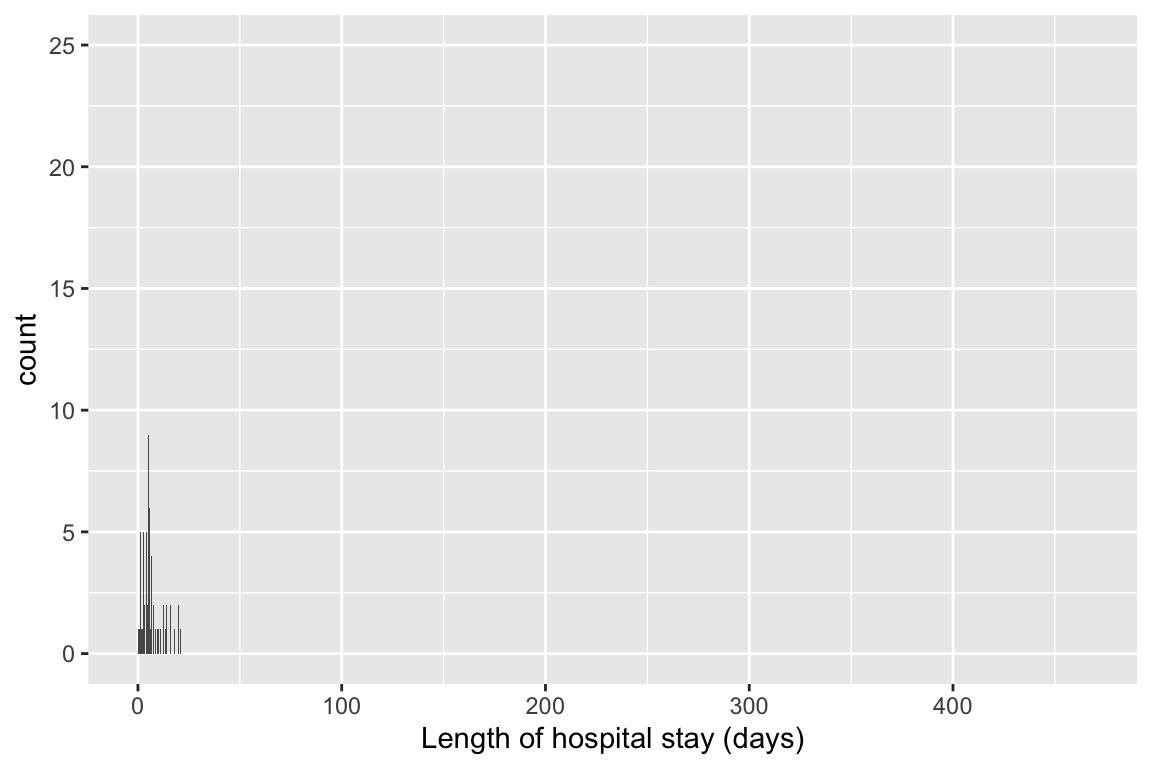
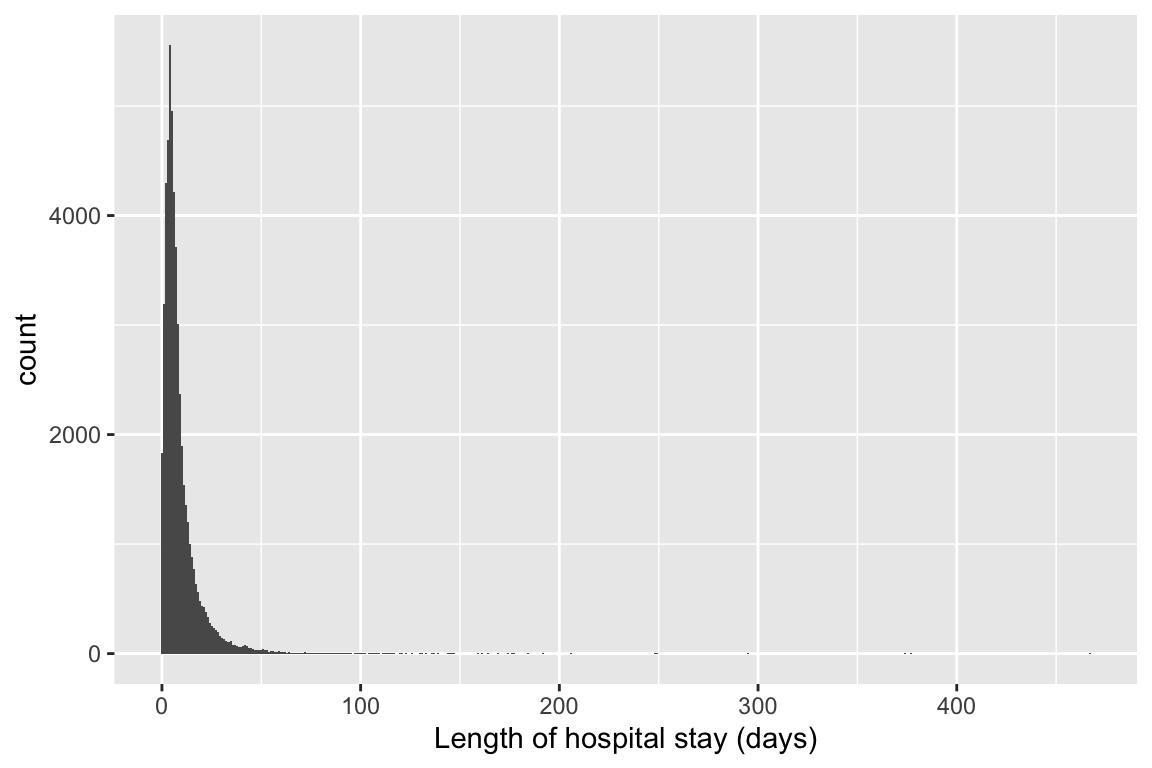
hw2 v7. Q5 mostly done

diff --git a/hw2/hw2-qmd.html b/hw2/hw2-qmd.html
@@ -255,21 +255,21 @@ loaded via a namespace (and not attached):
 <div class="sourceCode cell-code" id="cb13"><pre class="sourceCode r code-with-copy"><code class="sourceCode r"><span id="cb13-1"><a href="#cb13-1" aria-hidden="true" tabindex="-1"></a><span class="fu">system.time</span>(ad1 <span class="ot">&lt;-</span> <span class="fu">read.csv</span>(<span class="st">"~/mimic/core/admissions.csv.gz"</span>))</span></code><button title="Copy to Clipboard" class="code-copy-button"><i class="bi"></i></button></pre></div>
 <div class="cell-output cell-output-stdout">
 <pre><code>   user  system elapsed 
- 10.589   0.343  11.302 </code></pre>
+  9.494   0.229  10.052 </code></pre>
 </div>
 </div>
 <div class="cell" data-layout-align="center">
 <div class="sourceCode cell-code" id="cb15"><pre class="sourceCode r code-with-copy"><code class="sourceCode r"><span id="cb15-1"><a href="#cb15-1" aria-hidden="true" tabindex="-1"></a><span class="fu">system.time</span>(ad2 <span class="ot">&lt;-</span> <span class="fu">read_csv</span>(<span class="st">"~/mimic/core/admissions.csv.gz"</span>))</span></code><button title="Copy to Clipboard" class="code-copy-button"><i class="bi"></i></button></pre></div>
 <div class="cell-output cell-output-stdout">
 <pre><code>   user  system elapsed 
-  2.472   0.624   1.327 </code></pre>
+  2.628   0.709   1.467 </code></pre>
 </div>
 </div>
 <div class="cell" data-layout-align="center">
 <div class="sourceCode cell-code" id="cb17"><pre class="sourceCode r code-with-copy"><code class="sourceCode r"><span id="cb17-1"><a href="#cb17-1" aria-hidden="true" tabindex="-1"></a><span class="fu">system.time</span>(ad3 <span class="ot">&lt;-</span> <span class="fu">fread</span>(<span class="st">"~/mimic/core/admissions.csv.gz"</span>))</span></code><button title="Copy to Clipboard" class="code-copy-button"><i class="bi"></i></button></pre></div>
 <div class="cell-output cell-output-stdout">
 <pre><code>   user  system elapsed 
-  0.756   0.257   1.051 </code></pre>
+  0.817   0.287   1.159 </code></pre>
 </div>
 </div>
 <p><code>fread</code> is the fastest function.</p>
@@ -631,10 +631,13 @@ loaded via a namespace (and not attached):
 </div>
 <p>We can see four very distinct peaks at 0, 15, 30, and 45 minute. This is probably because sually the staffs like to use the numbers ending in 0 and 5 when recording admission. (People like to use whole numbers/ numbers ending in 0 or 5 in general).</p>
 <pre><code>- length of hospital stay (anything unusual?)   </code></pre>
+<p>I drew two different graphs:</p>
 <div class="cell" data-layout-align="center">
 <div class="sourceCode cell-code" id="cb53"><pre class="sourceCode r code-with-copy"><code class="sourceCode r"><span id="cb53-1"><a href="#cb53-1" aria-hidden="true" tabindex="-1"></a><span class="fu">ggplot</span>(<span class="at">data =</span> admissions_tble) <span class="sc">+</span> </span>
-<span id="cb53-2"><a href="#cb53-2" aria-hidden="true" tabindex="-1"></a>  <span class="fu">geom_bar</span>(<span class="at">mapping =</span> <span class="fu">aes</span>(<span class="at">x =</span> <span class="fu">difftime</span>(dischtime, admittime, <span class="at">units =</span> <span class="st">"days"</span>))) <span class="sc">+</span></span>
-<span id="cb53-3"><a href="#cb53-3" aria-hidden="true" tabindex="-1"></a>  <span class="fu">xlab</span>(<span class="st">"Length of hospital stay (days)"</span>) </span></code><button title="Copy to Clipboard" class="code-copy-button"><i class="bi"></i></button></pre></div>
+<span id="cb53-2"><a href="#cb53-2" aria-hidden="true" tabindex="-1"></a>  <span class="fu">geom_bar</span>(<span class="at">mapping =</span> <span class="fu">aes</span>(<span class="at">x =</span> <span class="fu">as.integer</span>(</span>
+<span id="cb53-3"><a href="#cb53-3" aria-hidden="true" tabindex="-1"></a>    <span class="fu">difftime</span>(dischtime, admittime, <span class="at">units =</span> <span class="st">"days"</span>))), </span>
+<span id="cb53-4"><a href="#cb53-4" aria-hidden="true" tabindex="-1"></a>           <span class="at">width =</span> <span class="dv">1</span>) <span class="sc">+</span></span>
+<span id="cb53-5"><a href="#cb53-5" aria-hidden="true" tabindex="-1"></a>  <span class="fu">xlab</span>(<span class="st">"Length of hospital stay (days)"</span>) </span></code><button title="Copy to Clipboard" class="code-copy-button"><i class="bi"></i></button></pre></div>
 <div class="cell-output-display">
 <div class="quarto-figure quarto-figure-center">
 <figure class="figure">
@@ -645,8 +648,12 @@ loaded via a namespace (and not attached):
 </div>
 <div class="cell" data-layout-align="center">
 <div class="sourceCode cell-code" id="cb54"><pre class="sourceCode r code-with-copy"><code class="sourceCode r"><span id="cb54-1"><a href="#cb54-1" aria-hidden="true" tabindex="-1"></a><span class="fu">ggplot</span>(<span class="at">data =</span> admissions_tble) <span class="sc">+</span> </span>
-<span id="cb54-2"><a href="#cb54-2" aria-hidden="true" tabindex="-1"></a>  <span class="fu">geom_bar</span>(<span class="at">mapping =</span> <span class="fu">aes</span>(<span class="at">x =</span> <span class="fu">difftime</span>(dischtime, admittime, <span class="at">units =</span> <span class="st">"weeks"</span>))) <span class="sc">+</span></span>
-<span id="cb54-3"><a href="#cb54-3" aria-hidden="true" tabindex="-1"></a>  <span class="fu">xlab</span>(<span class="st">"Length of hospital stay (weeks)"</span>) </span></code><button title="Copy to Clipboard" class="code-copy-button"><i class="bi"></i></button></pre></div>
+<span id="cb54-2"><a href="#cb54-2" aria-hidden="true" tabindex="-1"></a>  <span class="fu">geom_bar</span>(<span class="at">mapping =</span> <span class="fu">aes</span>(<span class="at">x =</span> <span class="fu">difftime</span>(dischtime, admittime, <span class="at">units =</span> <span class="st">"days"</span>)), </span>
+<span id="cb54-3"><a href="#cb54-3" aria-hidden="true" tabindex="-1"></a>           <span class="at">width =</span> <span class="dv">1</span>) <span class="sc">+</span></span>
+<span id="cb54-4"><a href="#cb54-4" aria-hidden="true" tabindex="-1"></a>  <span class="fu">xlab</span>(<span class="st">"Length of hospital stay (days)"</span>) </span></code><button title="Copy to Clipboard" class="code-copy-button"><i class="bi"></i></button></pre></div>
+<div class="cell-output cell-output-stderr">
+<pre><code>Warning: position_stack requires non-overlapping x intervals</code></pre>
+</div>
 <div class="cell-output-display">
 <div class="quarto-figure quarto-figure-center">
 <figure class="figure">
@@ -655,39 +662,21 @@ loaded via a namespace (and not attached):
 </div>
 </div>
 </div>
-<div class="cell" data-layout-align="center">
-<div class="sourceCode cell-code" id="cb55"><pre class="sourceCode r code-with-copy"><code class="sourceCode r"><span id="cb55-1"><a href="#cb55-1" aria-hidden="true" tabindex="-1"></a><span class="fu">ggplot</span>(<span class="at">data =</span> admissions_tble) <span class="sc">+</span> </span>
-<span id="cb55-2"><a href="#cb55-2" aria-hidden="true" tabindex="-1"></a>  <span class="fu">geom_bar</span>(<span class="at">mapping =</span> <span class="fu">aes</span>(<span class="at">x =</span> <span class="fu">difftime</span>(dischtime, admittime, <span class="at">units =</span> <span class="st">"week"</span>))) <span class="sc">+</span></span>
-<span id="cb55-3"><a href="#cb55-3" aria-hidden="true" tabindex="-1"></a>  <span class="fu">scale_x_continuous</span>(<span class="at">limits =</span> <span class="fu">c</span>(<span class="dv">0</span>, <span class="fu">max</span>(<span class="fu">difftime</span>(</span>
-<span id="cb55-4"><a href="#cb55-4" aria-hidden="true" tabindex="-1"></a>    admissions_tble<span class="sc">$</span>dischtime, admissions_tble<span class="sc">$</span>admittime, <span class="at">units =</span> <span class="st">"week"</span>))))</span></code><button title="Copy to Clipboard" class="code-copy-button"><i class="bi"></i></button></pre></div>
-<div class="cell-output cell-output-stderr">
-<pre><code>Warning: Removed 57 rows containing non-finite values (stat_count).</code></pre>
-</div>
-<div class="cell-output cell-output-stderr">
-<pre><code>Warning: Removed 1 rows containing missing values (geom_bar).</code></pre>
-</div>
-<div class="cell-output-display">
-<div class="quarto-figure quarto-figure-center">
-<figure class="figure">
-<p><img src="hw2-qmd_files/figure-html/unnamed-chunk-28-1.png" class="img-fluid figure-img" width="576"></p>
-</figure>
-</div>
-</div>
-</div>
-<p>What might be unusual is that the bars are tiny and we can only see the bars on the bottom left- I tried with using the unit as days and weeks and both look similar. I’m assuming there are patients who stayed for a fairly long period (different in length among themselves as well), thus it is hard to observe these people directly on the histogram.</p>
+<p>In the first graph, all the bars are near the left coner yet the x-axis still goes to more than 400. This might seem odd, but I assume this is due to there are a few people who had very long hospital stay.</p>
+<p>This hypothesis can be supported by the second graph- we can see there are several people with very long hospital stays. In the second graph, the highest count for each length of hospital stay in the unit of days is no more than 25, which might seem odd. But this is because the length of hospital stay is treated as a continuous variable in the second graph, so it is hard for a lot of people to have exact same hospital stay length.</p>
 </section>
 <section id="q4.-patients-data" class="level2" data-number="4">
 <h2 data-number="4" class="anchored" data-anchor-id="q4.-patients-data"><span class="header-section-number">4</span> Q4. <code>patients</code> data</h2>
 <p>Patient information is available in <code>patients.csv.gz</code>. See <a href="https://mimic.mit.edu/docs/iv/modules/core/patients/" class="uri">https://mimic.mit.edu/docs/iv/modules/core/patients/</a> for details of each field in this file. The first 10 lines are</p>
 <div class="cell" data-layout-align="center">
-<div class="sourceCode cell-code" id="cb58"><pre class="sourceCode r code-with-copy"><code class="sourceCode r"><span id="cb58-1"><a href="#cb58-1" aria-hidden="true" tabindex="-1"></a><span class="fu">system</span>(</span>
-<span id="cb58-2"><a href="#cb58-2" aria-hidden="true" tabindex="-1"></a>  <span class="fu">str_c</span>(</span>
-<span id="cb58-3"><a href="#cb58-3" aria-hidden="true" tabindex="-1"></a>    <span class="st">"zcat &lt; "</span>, </span>
-<span id="cb58-4"><a href="#cb58-4" aria-hidden="true" tabindex="-1"></a>    <span class="fu">str_c</span>(mimic_path, <span class="st">"/core/patients.csv.gz"</span>), </span>
-<span id="cb58-5"><a href="#cb58-5" aria-hidden="true" tabindex="-1"></a>    <span class="st">" | head"</span></span>
-<span id="cb58-6"><a href="#cb58-6" aria-hidden="true" tabindex="-1"></a>    ), </span>
-<span id="cb58-7"><a href="#cb58-7" aria-hidden="true" tabindex="-1"></a>  <span class="at">intern =</span> <span class="cn">TRUE</span></span>
-<span id="cb58-8"><a href="#cb58-8" aria-hidden="true" tabindex="-1"></a>)</span></code><button title="Copy to Clipboard" class="code-copy-button"><i class="bi"></i></button></pre></div>
+<div class="sourceCode cell-code" id="cb56"><pre class="sourceCode r code-with-copy"><code class="sourceCode r"><span id="cb56-1"><a href="#cb56-1" aria-hidden="true" tabindex="-1"></a><span class="fu">system</span>(</span>
+<span id="cb56-2"><a href="#cb56-2" aria-hidden="true" tabindex="-1"></a>  <span class="fu">str_c</span>(</span>
+<span id="cb56-3"><a href="#cb56-3" aria-hidden="true" tabindex="-1"></a>    <span class="st">"zcat &lt; "</span>, </span>
+<span id="cb56-4"><a href="#cb56-4" aria-hidden="true" tabindex="-1"></a>    <span class="fu">str_c</span>(mimic_path, <span class="st">"/core/patients.csv.gz"</span>), </span>
+<span id="cb56-5"><a href="#cb56-5" aria-hidden="true" tabindex="-1"></a>    <span class="st">" | head"</span></span>
+<span id="cb56-6"><a href="#cb56-6" aria-hidden="true" tabindex="-1"></a>    ), </span>
+<span id="cb56-7"><a href="#cb56-7" aria-hidden="true" tabindex="-1"></a>  <span class="at">intern =</span> <span class="cn">TRUE</span></span>
+<span id="cb56-8"><a href="#cb56-8" aria-hidden="true" tabindex="-1"></a>)</span></code><button title="Copy to Clipboard" class="code-copy-button"><i class="bi"></i></button></pre></div>
 <div class="cell-output cell-output-stdout">
 <pre><code> [1] "subject_id,gender,anchor_age,anchor_year,anchor_year_group,dod"
  [2] "10000048,F,23,2126,2008 - 2010,"                               
@@ -705,9 +694,9 @@ loaded via a namespace (and not attached):
 <li>Import <code>patients.csv.gz</code> (<a href="https://mimic.mit.edu/docs/iv/modules/core/patients/" class="uri">https://mimic.mit.edu/docs/iv/modules/core/patients/</a>) as a tibble <code>patients_tble</code> and only keep the patients who have a match in <code>icustays_tble</code> (according to <code>subject_id</code>).</li>
 </ol>
 <div class="cell" data-layout-align="center">
-<div class="sourceCode cell-code" id="cb60"><pre class="sourceCode r code-with-copy"><code class="sourceCode r"><span id="cb60-1"><a href="#cb60-1" aria-hidden="true" tabindex="-1"></a>patients_tble <span class="ot">&lt;-</span> <span class="fu">read_csv</span>(<span class="st">"~/mimic/core/patients.csv.gz"</span>) <span class="sc">%&gt;%</span> </span>
-<span id="cb60-2"><a href="#cb60-2" aria-hidden="true" tabindex="-1"></a>  <span class="fu">semi_join</span>(icustays_tble, <span class="at">by =</span> <span class="st">"subject_id"</span>)</span>
-<span id="cb60-3"><a href="#cb60-3" aria-hidden="true" tabindex="-1"></a>patients_tble</span></code><button title="Copy to Clipboard" class="code-copy-button"><i class="bi"></i></button></pre></div>
+<div class="sourceCode cell-code" id="cb58"><pre class="sourceCode r code-with-copy"><code class="sourceCode r"><span id="cb58-1"><a href="#cb58-1" aria-hidden="true" tabindex="-1"></a>patients_tble <span class="ot">&lt;-</span> <span class="fu">read_csv</span>(<span class="st">"~/mimic/core/patients.csv.gz"</span>) <span class="sc">%&gt;%</span> </span>
+<span id="cb58-2"><a href="#cb58-2" aria-hidden="true" tabindex="-1"></a>  <span class="fu">semi_join</span>(icustays_tble, <span class="at">by =</span> <span class="st">"subject_id"</span>)</span>
+<span id="cb58-3"><a href="#cb58-3" aria-hidden="true" tabindex="-1"></a>patients_tble</span></code><button title="Copy to Clipboard" class="code-copy-button"><i class="bi"></i></button></pre></div>
 <div class="cell-output cell-output-stdout">
 <pre><code># A tibble: 53,150 × 6
    subject_id gender anchor_age anchor_year anchor_year_group dod       
@@ -729,7 +718,7 @@ loaded via a namespace (and not attached):
 <li>Summarize variables <code>gender</code> and <code>anchor_age</code>, and explain any patterns you see.</li>
 </ol>
 <div class="cell" data-layout-align="center">
-<div class="sourceCode cell-code" id="cb62"><pre class="sourceCode r code-with-copy"><code class="sourceCode r"><span id="cb62-1"><a href="#cb62-1" aria-hidden="true" tabindex="-1"></a><span class="fu">table</span>(patients_tble<span class="sc">$</span>gender)</span></code><button title="Copy to Clipboard" class="code-copy-button"><i class="bi"></i></button></pre></div>
+<div class="sourceCode cell-code" id="cb60"><pre class="sourceCode r code-with-copy"><code class="sourceCode r"><span id="cb60-1"><a href="#cb60-1" aria-hidden="true" tabindex="-1"></a><span class="fu">table</span>(patients_tble<span class="sc">$</span>gender)</span></code><button title="Copy to Clipboard" class="code-copy-button"><i class="bi"></i></button></pre></div>
 <div class="cell-output cell-output-stdout">
 <pre><code>
     F     M 
@@ -737,15 +726,28 @@ loaded via a namespace (and not attached):
 </div>
 </div>
 <div class="cell" data-layout-align="center">
-<div class="sourceCode cell-code" id="cb64"><pre class="sourceCode r code-with-copy"><code class="sourceCode r"><span id="cb64-1"><a href="#cb64-1" aria-hidden="true" tabindex="-1"></a><span class="fu">summary</span>(patients_tble<span class="sc">$</span>anchor_age)</span></code><button title="Copy to Clipboard" class="code-copy-button"><i class="bi"></i></button></pre></div>
+<div class="sourceCode cell-code" id="cb62"><pre class="sourceCode r code-with-copy"><code class="sourceCode r"><span id="cb62-1"><a href="#cb62-1" aria-hidden="true" tabindex="-1"></a><span class="fu">summary</span>(patients_tble<span class="sc">$</span>anchor_age)</span></code><button title="Copy to Clipboard" class="code-copy-button"><i class="bi"></i></button></pre></div>
 <div class="cell-output cell-output-stdout">
 <pre><code>   Min. 1st Qu.  Median    Mean 3rd Qu.    Max. 
   18.00   53.00   65.00   63.51   77.00   91.00 </code></pre>
 </div>
 </div>
 <div class="cell" data-layout-align="center">
+<div class="sourceCode cell-code" id="cb64"><pre class="sourceCode r code-with-copy"><code class="sourceCode r"><span id="cb64-1"><a href="#cb64-1" aria-hidden="true" tabindex="-1"></a>patients_tble <span class="sc">%&gt;%</span> </span>
+<span id="cb64-2"><a href="#cb64-2" aria-hidden="true" tabindex="-1"></a>  <span class="fu">filter</span>(gender<span class="sc">==</span><span class="st">"M"</span>) <span class="sc">%&gt;%</span> </span>
+<span id="cb64-3"><a href="#cb64-3" aria-hidden="true" tabindex="-1"></a>  <span class="fu">summarize</span>(</span>
+<span id="cb64-4"><a href="#cb64-4" aria-hidden="true" tabindex="-1"></a>    <span class="fu">min</span>(anchor_age),</span>
+<span id="cb64-5"><a href="#cb64-5" aria-hidden="true" tabindex="-1"></a>    <span class="fu">median</span>(anchor_age),</span>
+<span id="cb64-6"><a href="#cb64-6" aria-hidden="true" tabindex="-1"></a>    <span class="fu">mean</span>(anchor_age),</span>
+<span id="cb64-7"><a href="#cb64-7" aria-hidden="true" tabindex="-1"></a>    <span class="fu">max</span>(anchor_age))</span></code><button title="Copy to Clipboard" class="code-copy-button"><i class="bi"></i></button></pre></div>
+<div class="cell-output cell-output-stdout">
+<pre><code># A tibble: 1 × 4
+  `min(anchor_age)` `median(anchor_age)` `mean(anchor_age)` `max(anchor_age)`
+              &lt;dbl&gt;                &lt;dbl&gt;              &lt;dbl&gt;             &lt;dbl&gt;
+1                18                   64               62.5                91</code></pre>
+</div>
 <div class="sourceCode cell-code" id="cb66"><pre class="sourceCode r code-with-copy"><code class="sourceCode r"><span id="cb66-1"><a href="#cb66-1" aria-hidden="true" tabindex="-1"></a>patients_tble <span class="sc">%&gt;%</span> </span>
-<span id="cb66-2"><a href="#cb66-2" aria-hidden="true" tabindex="-1"></a>  <span class="fu">filter</span>(gender<span class="sc">==</span><span class="st">"M"</span>) <span class="sc">%&gt;%</span> </span>
+<span id="cb66-2"><a href="#cb66-2" aria-hidden="true" tabindex="-1"></a>  <span class="fu">filter</span>(gender<span class="sc">==</span><span class="st">"F"</span>) <span class="sc">%&gt;%</span> </span>
 <span id="cb66-3"><a href="#cb66-3" aria-hidden="true" tabindex="-1"></a>  <span class="fu">summarize</span>(</span>
 <span id="cb66-4"><a href="#cb66-4" aria-hidden="true" tabindex="-1"></a>    <span class="fu">min</span>(anchor_age),</span>
 <span id="cb66-5"><a href="#cb66-5" aria-hidden="true" tabindex="-1"></a>    <span class="fu">median</span>(anchor_age),</span>
@@ -755,47 +757,34 @@ loaded via a namespace (and not attached):
 <pre><code># A tibble: 1 × 4
   `min(anchor_age)` `median(anchor_age)` `mean(anchor_age)` `max(anchor_age)`
               &lt;dbl&gt;                &lt;dbl&gt;              &lt;dbl&gt;             &lt;dbl&gt;
-1                18                   64               62.5                91</code></pre>
-</div>
-<div class="sourceCode cell-code" id="cb68"><pre class="sourceCode r code-with-copy"><code class="sourceCode r"><span id="cb68-1"><a href="#cb68-1" aria-hidden="true" tabindex="-1"></a>patients_tble <span class="sc">%&gt;%</span> </span>
-<span id="cb68-2"><a href="#cb68-2" aria-hidden="true" tabindex="-1"></a>  <span class="fu">filter</span>(gender<span class="sc">==</span><span class="st">"F"</span>) <span class="sc">%&gt;%</span> </span>
-<span id="cb68-3"><a href="#cb68-3" aria-hidden="true" tabindex="-1"></a>  <span class="fu">summarize</span>(</span>
-<span id="cb68-4"><a href="#cb68-4" aria-hidden="true" tabindex="-1"></a>    <span class="fu">min</span>(anchor_age),</span>
-<span id="cb68-5"><a href="#cb68-5" aria-hidden="true" tabindex="-1"></a>    <span class="fu">median</span>(anchor_age),</span>
-<span id="cb68-6"><a href="#cb68-6" aria-hidden="true" tabindex="-1"></a>    <span class="fu">mean</span>(anchor_age),</span>
-<span id="cb68-7"><a href="#cb68-7" aria-hidden="true" tabindex="-1"></a>    <span class="fu">max</span>(anchor_age))</span></code><button title="Copy to Clipboard" class="code-copy-button"><i class="bi"></i></button></pre></div>
-<div class="cell-output cell-output-stdout">
-<pre><code># A tibble: 1 × 4
-  `min(anchor_age)` `median(anchor_age)` `mean(anchor_age)` `max(anchor_age)`
-              &lt;dbl&gt;                &lt;dbl&gt;              &lt;dbl&gt;             &lt;dbl&gt;
 1                18                   67               64.8                91</code></pre>
 </div>
 </div>
 <div class="cell" data-layout-align="center">
-<div class="sourceCode cell-code" id="cb70"><pre class="sourceCode r code-with-copy"><code class="sourceCode r"><span id="cb70-1"><a href="#cb70-1" aria-hidden="true" tabindex="-1"></a><span class="fu">ggplot</span>(patients_tble) <span class="sc">+</span></span>
-<span id="cb70-2"><a href="#cb70-2" aria-hidden="true" tabindex="-1"></a>  <span class="fu">geom_bar</span>(<span class="at">mapping =</span> <span class="fu">aes</span>(<span class="at">x =</span> anchor_age))</span></code><button title="Copy to Clipboard" class="code-copy-button"><i class="bi"></i></button></pre></div>
+<div class="sourceCode cell-code" id="cb68"><pre class="sourceCode r code-with-copy"><code class="sourceCode r"><span id="cb68-1"><a href="#cb68-1" aria-hidden="true" tabindex="-1"></a><span class="fu">ggplot</span>(patients_tble) <span class="sc">+</span></span>
+<span id="cb68-2"><a href="#cb68-2" aria-hidden="true" tabindex="-1"></a>  <span class="fu">geom_bar</span>(<span class="at">mapping =</span> <span class="fu">aes</span>(<span class="at">x =</span> anchor_age))</span></code><button title="Copy to Clipboard" class="code-copy-button"><i class="bi"></i></button></pre></div>
 <div class="cell-output-display">
 <div class="quarto-figure quarto-figure-center">
 <figure class="figure">
-<p><img src="hw2-qmd_files/figure-html/unnamed-chunk-34-1.png" class="img-fluid figure-img" width="576"></p>
+<p><img src="hw2-qmd_files/figure-html/unnamed-chunk-33-1.png" class="img-fluid figure-img" width="576"></p>
 </figure>
 </div>
 </div>
 </div>
-<p>There are slightly more males than females. The mean anchor age for all patients is around 63.5 with a median of 65. Male patients are generally younger than female patients. The mean anchor age for male is 62.5 with a median of 64, whereas the mean anchor age for female is 64.8 with a median of 67. From the histogram we can see the distribution of anchor age is left skewed. There are more patients with older anchor age than younger anchor age. We observed a peak at age 91- we should go back to the codebook and see if 91 is actually an anchor age, or if it is a code for missing value.</p>
+<p>There are slightly more male than female patients. The mean anchor age for all patients is around 63.5 with a median of 65. Male patients generally have a lower anchor age than female patients. The mean anchor age for male is 62.5 with a median of 64, whereas the mean anchor age for female is 64.8 with a median of 67. From the histogram we can see the distribution of anchor age is left skewed. There are more patients with older anchor age than younger anchor age. We observed a peak at age 91- we should go back to the codebook and see if 91 is actually an anchor age, or if it is a code for missing value.</p>
 </section>
 <section id="q5.-lab-results" class="level2" data-number="5">
 <h2 data-number="5" class="anchored" data-anchor-id="q5.-lab-results"><span class="header-section-number">5</span> Q5. Lab results</h2>
 <p><code>labevents.csv.gz</code> (<a href="https://mimic.mit.edu/docs/iv/modules/hosp/labevents/" class="uri">https://mimic.mit.edu/docs/iv/modules/hosp/labevents/</a>) contains all laboratory measurements for patients. The first 10 lines are</p>
 <div class="cell" data-layout-align="center">
-<div class="sourceCode cell-code" id="cb71"><pre class="sourceCode r code-with-copy"><code class="sourceCode r"><span id="cb71-1"><a href="#cb71-1" aria-hidden="true" tabindex="-1"></a><span class="fu">system</span>(</span>
-<span id="cb71-2"><a href="#cb71-2" aria-hidden="true" tabindex="-1"></a>  <span class="fu">str_c</span>(</span>
-<span id="cb71-3"><a href="#cb71-3" aria-hidden="true" tabindex="-1"></a>    <span class="st">"zcat &lt; "</span>, </span>
-<span id="cb71-4"><a href="#cb71-4" aria-hidden="true" tabindex="-1"></a>    <span class="fu">str_c</span>(mimic_path, <span class="st">"/hosp/labevents.csv.gz"</span>), </span>
-<span id="cb71-5"><a href="#cb71-5" aria-hidden="true" tabindex="-1"></a>    <span class="st">" | head"</span></span>
-<span id="cb71-6"><a href="#cb71-6" aria-hidden="true" tabindex="-1"></a>    ), </span>
-<span id="cb71-7"><a href="#cb71-7" aria-hidden="true" tabindex="-1"></a>  <span class="at">intern =</span> <span class="cn">TRUE</span></span>
-<span id="cb71-8"><a href="#cb71-8" aria-hidden="true" tabindex="-1"></a>)</span></code><button title="Copy to Clipboard" class="code-copy-button"><i class="bi"></i></button></pre></div>
+<div class="sourceCode cell-code" id="cb69"><pre class="sourceCode r code-with-copy"><code class="sourceCode r"><span id="cb69-1"><a href="#cb69-1" aria-hidden="true" tabindex="-1"></a><span class="fu">system</span>(</span>
+<span id="cb69-2"><a href="#cb69-2" aria-hidden="true" tabindex="-1"></a>  <span class="fu">str_c</span>(</span>
+<span id="cb69-3"><a href="#cb69-3" aria-hidden="true" tabindex="-1"></a>    <span class="st">"zcat &lt; "</span>, </span>
+<span id="cb69-4"><a href="#cb69-4" aria-hidden="true" tabindex="-1"></a>    <span class="fu">str_c</span>(mimic_path, <span class="st">"/hosp/labevents.csv.gz"</span>), </span>
+<span id="cb69-5"><a href="#cb69-5" aria-hidden="true" tabindex="-1"></a>    <span class="st">" | head"</span></span>
+<span id="cb69-6"><a href="#cb69-6" aria-hidden="true" tabindex="-1"></a>    ), </span>
+<span id="cb69-7"><a href="#cb69-7" aria-hidden="true" tabindex="-1"></a>  <span class="at">intern =</span> <span class="cn">TRUE</span></span>
+<span id="cb69-8"><a href="#cb69-8" aria-hidden="true" tabindex="-1"></a>)</span></code><button title="Copy to Clipboard" class="code-copy-button"><i class="bi"></i></button></pre></div>
 <div class="cell-output cell-output-stdout">
 <pre><code> [1] "labevent_id,subject_id,hadm_id,specimen_id,itemid,charttime,storetime,value,valuenum,valueuom,ref_range_lower,ref_range_upper,flag,priority,comments"
  [2] "670,10000048,,6448755,51484,2126-11-22 19:20:00,2126-11-22 20:07:00,150,150,mg/dL,,,,STAT,"                                                          
@@ -811,14 +800,14 @@ loaded via a namespace (and not attached):
 </div>
 <p><code>d_labitems.csv.gz</code> is the dictionary of lab measurements.</p>
 <div class="cell" data-layout-align="center">
-<div class="sourceCode cell-code" id="cb73"><pre class="sourceCode r code-with-copy"><code class="sourceCode r"><span id="cb73-1"><a href="#cb73-1" aria-hidden="true" tabindex="-1"></a><span class="fu">system</span>(</span>
-<span id="cb73-2"><a href="#cb73-2" aria-hidden="true" tabindex="-1"></a>  <span class="fu">str_c</span>(</span>
-<span id="cb73-3"><a href="#cb73-3" aria-hidden="true" tabindex="-1"></a>    <span class="st">"zcat &lt; "</span>, </span>
-<span id="cb73-4"><a href="#cb73-4" aria-hidden="true" tabindex="-1"></a>    <span class="fu">str_c</span>(mimic_path, <span class="st">"/hosp/d_labitems.csv.gz"</span>), </span>
-<span id="cb73-5"><a href="#cb73-5" aria-hidden="true" tabindex="-1"></a>    <span class="st">" | head"</span></span>
-<span id="cb73-6"><a href="#cb73-6" aria-hidden="true" tabindex="-1"></a>    ), </span>
-<span id="cb73-7"><a href="#cb73-7" aria-hidden="true" tabindex="-1"></a>  <span class="at">intern =</span> <span class="cn">TRUE</span></span>
-<span id="cb73-8"><a href="#cb73-8" aria-hidden="true" tabindex="-1"></a>)</span></code><button title="Copy to Clipboard" class="code-copy-button"><i class="bi"></i></button></pre></div>
+<div class="sourceCode cell-code" id="cb71"><pre class="sourceCode r code-with-copy"><code class="sourceCode r"><span id="cb71-1"><a href="#cb71-1" aria-hidden="true" tabindex="-1"></a><span class="fu">system</span>(</span>
+<span id="cb71-2"><a href="#cb71-2" aria-hidden="true" tabindex="-1"></a>  <span class="fu">str_c</span>(</span>
+<span id="cb71-3"><a href="#cb71-3" aria-hidden="true" tabindex="-1"></a>    <span class="st">"zcat &lt; "</span>, </span>
+<span id="cb71-4"><a href="#cb71-4" aria-hidden="true" tabindex="-1"></a>    <span class="fu">str_c</span>(mimic_path, <span class="st">"/hosp/d_labitems.csv.gz"</span>), </span>
+<span id="cb71-5"><a href="#cb71-5" aria-hidden="true" tabindex="-1"></a>    <span class="st">" | head"</span></span>
+<span id="cb71-6"><a href="#cb71-6" aria-hidden="true" tabindex="-1"></a>    ), </span>
+<span id="cb71-7"><a href="#cb71-7" aria-hidden="true" tabindex="-1"></a>  <span class="at">intern =</span> <span class="cn">TRUE</span></span>
+<span id="cb71-8"><a href="#cb71-8" aria-hidden="true" tabindex="-1"></a>)</span></code><button title="Copy to Clipboard" class="code-copy-button"><i class="bi"></i></button></pre></div>
 <div class="cell-output cell-output-stdout">
 <pre><code> [1] "itemid,label,fluid,category,loinc_code"           
  [2] "51905, ,Other Body Fluid,Chemistry,"              
@@ -833,24 +822,98 @@ loaded via a namespace (and not attached):
 </div>
 </div>
 <ol type="1">
-<li><p>Find how many rows are in <code>labevents.csv.gz</code>.</p></li>
+<li>Find how many rows are in <code>labevents.csv.gz</code>.</li>
+</ol>
+<div class="cell" data-layout-align="center">
+<div class="sourceCode cell-code" id="cb73"><pre class="sourceCode r code-with-copy"><code class="sourceCode r"><span id="cb73-1"><a href="#cb73-1" aria-hidden="true" tabindex="-1"></a><span class="fu">nrow</span>(<span class="fu">read_csv</span>(<span class="st">"~/mimic/hosp/labevents_filtered_itemid.csv.gz"</span>))</span></code><button title="Copy to Clipboard" class="code-copy-button"><i class="bi"></i></button></pre></div>
+<div class="cell-output cell-output-stdout">
+<pre><code>[1] 30198826</code></pre>
+</div>
+</div>
+<p>I read in <code>labevents_filtered_itemid.csv.gz</code> by <code>read_csv</code> and there are 30198826 lines.</p>
+<p>The <code>labevents.csv.gz</code> file was too big for <code>read_csv</code> function but it took a lot less time in bash. I also obtained the number of lines of <code>labevents.csv.gz</code> with bash code:</p>
+<div class="cell" data-layout-align="center">
+<div class="sourceCode cell-code" id="cb75"><pre class="sourceCode bash code-with-copy"><code class="sourceCode bash"><span id="cb75-1"><a href="#cb75-1" aria-hidden="true" tabindex="-1"></a><span class="fu">zcat</span> <span class="op">&lt;</span> ~/mimic/hosp/labevents.csv.gz <span class="kw">|</span> <span class="fu">tail</span> <span class="at">-n</span> +2 <span class="kw">|</span> <span class="fu">wc</span> <span class="at">-l</span> </span></code><button title="Copy to Clipboard" class="code-copy-button"><i class="bi"></i></button></pre></div>
+<div class="cell-output cell-output-stdout">
+<pre><code> 122103667</code></pre>
+</div>
+</div>
+<p>There are 122103667 lines in the <code>labevents.csv.gz</code> file. The <code>tail -n +2</code> can cause the command to not count the title row, thus if I were to be able to count the rows of <code>labenets.csv.gz</code> using R code I would have got the same number: 122103667.</p>
+<ol start="2" type="1">
 <li><p>We are interested in the lab measurements of creatinine (50912), potassium (50971), sodium (50983), chloride (50902), bicarbonate (50882), hematocrit (51221), white blood cell count (51301), and glucose (50931). Retrieve a subset of <code>labevents.csv.gz</code> only containing these items for the patients in <code>icustays_tble</code> as a tibble <code>labevents_tble</code>.</p>
 <p>Hint: <code>labevents.csv.gz</code> is a data file too big to be read in by the <code>read_csv</code> function in its default setting. Utilize the <code>col_select</code> option in the <code>read_csv</code> function to reduce the memory burden. It took my computer 5-10 minutes to ingest this file. If your computer really has trouble importing <code>labevents.csv.gz</code>, you can import from the reduced data file <code>labevents_filtered_itemid.csv.gz</code>.</p></li>
-<li><p>Further restrict <code>labevents_tble</code> to the first lab measurement during the ICU stay.</p></li>
-<li><p>Summarize the lab measurements by appropriate numerics and graphics.</p></li>
 </ol>
+<div class="cell" data-layout-align="center">
+<div class="sourceCode cell-code" id="cb77"><pre class="sourceCode r code-with-copy"><code class="sourceCode r"><span id="cb77-1"><a href="#cb77-1" aria-hidden="true" tabindex="-1"></a>labevents_tble <span class="ot">&lt;-</span> <span class="fu">read_csv</span>(<span class="st">"~/mimic/hosp/labevents_filtered_itemid.csv.gz"</span>) <span class="sc">%&gt;%</span> </span>
+<span id="cb77-2"><a href="#cb77-2" aria-hidden="true" tabindex="-1"></a>  <span class="fu">semi_join</span>(icustays_tble, <span class="at">by =</span> <span class="st">"subject_id"</span>) <span class="sc">%&gt;%</span> </span>
+<span id="cb77-3"><a href="#cb77-3" aria-hidden="true" tabindex="-1"></a>  <span class="fu">filter</span>(itemid <span class="sc">==</span> <span class="dv">50912</span> <span class="sc">|</span> itemid <span class="sc">==</span> <span class="dv">50971</span> <span class="sc">|</span> </span>
+<span id="cb77-4"><a href="#cb77-4" aria-hidden="true" tabindex="-1"></a>           itemid <span class="sc">==</span> <span class="dv">50983</span> <span class="sc">|</span> itemid <span class="sc">==</span> <span class="dv">50902</span> <span class="sc">|</span></span>
+<span id="cb77-5"><a href="#cb77-5" aria-hidden="true" tabindex="-1"></a>           itemid <span class="sc">==</span> <span class="dv">50882</span> <span class="sc">|</span> itemid <span class="sc">==</span> <span class="dv">51221</span> <span class="sc">|</span> </span>
+<span id="cb77-6"><a href="#cb77-6" aria-hidden="true" tabindex="-1"></a>           itemid <span class="sc">==</span> <span class="dv">51301</span> <span class="sc">|</span> itemid <span class="sc">==</span> <span class="dv">50931</span>)</span></code><button title="Copy to Clipboard" class="code-copy-button"><i class="bi"></i></button></pre></div>
+</div>
+<ol start="3" type="1">
+<li>Further restrict <code>labevents_tble</code> to the first lab measurement during the ICU stay.</li>
+</ol>
+<div class="cell" data-layout-align="center">
+<div class="sourceCode cell-code" id="cb78"><pre class="sourceCode r code-with-copy"><code class="sourceCode r"><span id="cb78-1"><a href="#cb78-1" aria-hidden="true" tabindex="-1"></a>labevents_tble <span class="ot">&lt;-</span> labevents_tble <span class="sc">%&gt;%</span></span>
+<span id="cb78-2"><a href="#cb78-2" aria-hidden="true" tabindex="-1"></a>  <span class="fu">left_join</span>(<span class="fu">select</span>(icustays_tble, subject_id, intime, outtime), </span>
+<span id="cb78-3"><a href="#cb78-3" aria-hidden="true" tabindex="-1"></a>            <span class="at">by =</span> <span class="st">"subject_id"</span>) <span class="sc">%&gt;%</span> </span>
+<span id="cb78-4"><a href="#cb78-4" aria-hidden="true" tabindex="-1"></a>  <span class="fu">filter</span>(charttime <span class="sc">&gt;=</span> intime <span class="sc">&amp;</span> charttime <span class="sc">&lt;=</span> outtime) <span class="sc">%&gt;%</span></span>
+<span id="cb78-5"><a href="#cb78-5" aria-hidden="true" tabindex="-1"></a>  <span class="fu">group_by</span>(subject_id, itemid) <span class="sc">%&gt;%</span></span>
+<span id="cb78-6"><a href="#cb78-6" aria-hidden="true" tabindex="-1"></a>  <span class="fu">arrange</span>(<span class="at">.by_group =</span> <span class="cn">TRUE</span>, charttime) <span class="sc">%&gt;%</span> </span>
+<span id="cb78-7"><a href="#cb78-7" aria-hidden="true" tabindex="-1"></a>  <span class="fu">slice_head</span>(<span class="at">n =</span> <span class="dv">1</span>)</span></code><button title="Copy to Clipboard" class="code-copy-button"><i class="bi"></i></button></pre></div>
+</div>
+<ol start="4" type="1">
+<li>Summarize the lab measurements by appropriate numerics and graphics.</li>
+</ol>
+<div class="cell" data-layout-align="center">
+<div class="sourceCode cell-code" id="cb79"><pre class="sourceCode r code-with-copy"><code class="sourceCode r"><span id="cb79-1"><a href="#cb79-1" aria-hidden="true" tabindex="-1"></a>labevents_tble <span class="ot">&lt;-</span> labevents_tble <span class="sc">%&gt;%</span></span>
+<span id="cb79-2"><a href="#cb79-2" aria-hidden="true" tabindex="-1"></a>  <span class="fu">mutate</span>(<span class="at">itemcode =</span> <span class="fu">case_when</span>(</span>
+<span id="cb79-3"><a href="#cb79-3" aria-hidden="true" tabindex="-1"></a>    itemid <span class="sc">==</span> <span class="dv">50882</span> <span class="sc">~</span> <span class="st">"bicarbonate"</span>,</span>
+<span id="cb79-4"><a href="#cb79-4" aria-hidden="true" tabindex="-1"></a>    itemid <span class="sc">==</span> <span class="dv">50902</span> <span class="sc">~</span> <span class="st">"chloride"</span>,</span>
+<span id="cb79-5"><a href="#cb79-5" aria-hidden="true" tabindex="-1"></a>    itemid <span class="sc">==</span> <span class="dv">50912</span> <span class="sc">~</span> <span class="st">"creatinine"</span>,</span>
+<span id="cb79-6"><a href="#cb79-6" aria-hidden="true" tabindex="-1"></a>    itemid <span class="sc">==</span> <span class="dv">50931</span> <span class="sc">~</span> <span class="st">"glucose"</span>,</span>
+<span id="cb79-7"><a href="#cb79-7" aria-hidden="true" tabindex="-1"></a>    itemid <span class="sc">==</span> <span class="dv">50971</span> <span class="sc">~</span> <span class="st">"potassium"</span>,</span>
+<span id="cb79-8"><a href="#cb79-8" aria-hidden="true" tabindex="-1"></a>    itemid <span class="sc">==</span> <span class="dv">50983</span> <span class="sc">~</span> <span class="st">"sodium"</span>,</span>
+<span id="cb79-9"><a href="#cb79-9" aria-hidden="true" tabindex="-1"></a>    itemid <span class="sc">==</span> <span class="dv">51221</span> <span class="sc">~</span> <span class="st">"hematocrit"</span>,</span>
+<span id="cb79-10"><a href="#cb79-10" aria-hidden="true" tabindex="-1"></a>    itemid <span class="sc">==</span> <span class="dv">51301</span> <span class="sc">~</span> <span class="st">"wbc count"</span></span>
+<span id="cb79-11"><a href="#cb79-11" aria-hidden="true" tabindex="-1"></a>  ))</span></code><button title="Copy to Clipboard" class="code-copy-button"><i class="bi"></i></button></pre></div>
+</div>
+<div class="cell" data-layout-align="center">
+<div class="sourceCode cell-code" id="cb80"><pre class="sourceCode r code-with-copy"><code class="sourceCode r"><span id="cb80-1"><a href="#cb80-1" aria-hidden="true" tabindex="-1"></a><span class="fu">table</span>(labevents_tble<span class="sc">$</span>itemcode)</span></code><button title="Copy to Clipboard" class="code-copy-button"><i class="bi"></i></button></pre></div>
+<div class="cell-output cell-output-stdout">
+<pre><code>
+bicarbonate    chloride  creatinine     glucose  hematocrit   potassium 
+      51371       51398       51379       51275       51320       51398 
+     sodium   wbc count 
+      51398       51175 </code></pre>
+</div>
+</div>
+<div class="cell" data-layout-align="center">
+<div class="sourceCode cell-code" id="cb82"><pre class="sourceCode r code-with-copy"><code class="sourceCode r"><span id="cb82-1"><a href="#cb82-1" aria-hidden="true" tabindex="-1"></a><span class="fu">ggplot</span>(labevents_tble) <span class="sc">+</span></span>
+<span id="cb82-2"><a href="#cb82-2" aria-hidden="true" tabindex="-1"></a>  <span class="fu">geom_bar</span>(<span class="at">mapping =</span> <span class="fu">aes</span>(<span class="at">x =</span> itemcode, <span class="at">y =</span> ..count..)) <span class="sc">+</span></span>
+<span id="cb82-3"><a href="#cb82-3" aria-hidden="true" tabindex="-1"></a>  <span class="fu">xlab</span>(<span class="st">"Lab measurement"</span>)</span></code><button title="Copy to Clipboard" class="code-copy-button"><i class="bi"></i></button></pre></div>
+<div class="cell-output-display">
+<div class="quarto-figure quarto-figure-center">
+<figure class="figure">
+<p><img src="hw2-qmd_files/figure-html/unnamed-chunk-42-1.png" class="img-fluid figure-img" width="576"></p>
+</figure>
+</div>
+</div>
+</div>
+<p>The table and histogram above show how many of each lab measurements are in <code>labevents_tble</code>. Based on the numbers it seems like almost everyone had all of the 8 lab measurements measured during their ICU stay.</p>
 </section>
 <section id="q6.-vitals-from-charted-events" class="level2" data-number="6">
 <h2 data-number="6" class="anchored" data-anchor-id="q6.-vitals-from-charted-events"><span class="header-section-number">6</span> Q6. Vitals from charted events</h2>
 <p><code>chartevents.csv.gz</code> (<a href="https://mimic.mit.edu/docs/iv/modules/icu/chartevents/" class="uri">https://mimic.mit.edu/docs/iv/modules/icu/chartevents/</a>) contains all the charted data available for a patient. During their ICU stay, the primary repository of a patient’s information is their electronic chart. The <code>itemid</code> variable indicates a single measurement type in the database. The <code>value</code> variable is the value measured for <code>itemid</code>. The first 10 lines of <code>chartevents.csv.gz</code> are</p>
 <div class="cell" data-layout-align="center">
-<div class="sourceCode cell-code" id="cb75"><pre class="sourceCode r code-with-copy"><code class="sourceCode r"><span id="cb75-1"><a href="#cb75-1" aria-hidden="true" tabindex="-1"></a><span class="fu">system</span>(</span>
-<span id="cb75-2"><a href="#cb75-2" aria-hidden="true" tabindex="-1"></a>  <span class="fu">str_c</span>(</span>
-<span id="cb75-3"><a href="#cb75-3" aria-hidden="true" tabindex="-1"></a>    <span class="st">"zcat &lt; "</span>, </span>
-<span id="cb75-4"><a href="#cb75-4" aria-hidden="true" tabindex="-1"></a>    <span class="fu">str_c</span>(mimic_path, <span class="st">"/icu/chartevents.csv.gz"</span>), </span>
-<span id="cb75-5"><a href="#cb75-5" aria-hidden="true" tabindex="-1"></a>    <span class="st">" | head"</span>), </span>
-<span id="cb75-6"><a href="#cb75-6" aria-hidden="true" tabindex="-1"></a>  <span class="at">intern =</span> <span class="cn">TRUE</span></span>
-<span id="cb75-7"><a href="#cb75-7" aria-hidden="true" tabindex="-1"></a>)</span></code><button title="Copy to Clipboard" class="code-copy-button"><i class="bi"></i></button></pre></div>
+<div class="sourceCode cell-code" id="cb83"><pre class="sourceCode r code-with-copy"><code class="sourceCode r"><span id="cb83-1"><a href="#cb83-1" aria-hidden="true" tabindex="-1"></a><span class="fu">system</span>(</span>
+<span id="cb83-2"><a href="#cb83-2" aria-hidden="true" tabindex="-1"></a>  <span class="fu">str_c</span>(</span>
+<span id="cb83-3"><a href="#cb83-3" aria-hidden="true" tabindex="-1"></a>    <span class="st">"zcat &lt; "</span>, </span>
+<span id="cb83-4"><a href="#cb83-4" aria-hidden="true" tabindex="-1"></a>    <span class="fu">str_c</span>(mimic_path, <span class="st">"/icu/chartevents.csv.gz"</span>), </span>
+<span id="cb83-5"><a href="#cb83-5" aria-hidden="true" tabindex="-1"></a>    <span class="st">" | head"</span>), </span>
+<span id="cb83-6"><a href="#cb83-6" aria-hidden="true" tabindex="-1"></a>  <span class="at">intern =</span> <span class="cn">TRUE</span></span>
+<span id="cb83-7"><a href="#cb83-7" aria-hidden="true" tabindex="-1"></a>)</span></code><button title="Copy to Clipboard" class="code-copy-button"><i class="bi"></i></button></pre></div>
 <div class="cell-output cell-output-stdout">
 <pre><code> [1] "subject_id,hadm_id,stay_id,charttime,storetime,itemid,value,valuenum,valueuom,warning"
  [2] "10003700,28623837,30600691,2165-04-24 05:10:00,2165-04-24 05:11:00,228236,0,0,,0"     
@@ -866,13 +929,13 @@ loaded via a namespace (and not attached):
 </div>
 <p><code>d_items.csv.gz</code> (<a href="https://mimic.mit.edu/docs/iv/modules/icu/d_items/" class="uri">https://mimic.mit.edu/docs/iv/modules/icu/d_items/</a>) is the dictionary for the <code>itemid</code> in <code>chartevents.csv.gz</code>.</p>
 <div class="cell" data-layout-align="center">
-<div class="sourceCode cell-code" id="cb77"><pre class="sourceCode r code-with-copy"><code class="sourceCode r"><span id="cb77-1"><a href="#cb77-1" aria-hidden="true" tabindex="-1"></a><span class="fu">system</span>(</span>
-<span id="cb77-2"><a href="#cb77-2" aria-hidden="true" tabindex="-1"></a>  <span class="fu">str_c</span>(</span>
-<span id="cb77-3"><a href="#cb77-3" aria-hidden="true" tabindex="-1"></a>    <span class="st">"zcat &lt; "</span>, </span>
-<span id="cb77-4"><a href="#cb77-4" aria-hidden="true" tabindex="-1"></a>    <span class="fu">str_c</span>(mimic_path, <span class="st">"/icu/d_items.csv.gz"</span>), </span>
-<span id="cb77-5"><a href="#cb77-5" aria-hidden="true" tabindex="-1"></a>    <span class="st">" | head"</span>), </span>
-<span id="cb77-6"><a href="#cb77-6" aria-hidden="true" tabindex="-1"></a>  <span class="at">intern =</span> <span class="cn">TRUE</span></span>
-<span id="cb77-7"><a href="#cb77-7" aria-hidden="true" tabindex="-1"></a>)</span></code><button title="Copy to Clipboard" class="code-copy-button"><i class="bi"></i></button></pre></div>
+<div class="sourceCode cell-code" id="cb85"><pre class="sourceCode r code-with-copy"><code class="sourceCode r"><span id="cb85-1"><a href="#cb85-1" aria-hidden="true" tabindex="-1"></a><span class="fu">system</span>(</span>
+<span id="cb85-2"><a href="#cb85-2" aria-hidden="true" tabindex="-1"></a>  <span class="fu">str_c</span>(</span>
+<span id="cb85-3"><a href="#cb85-3" aria-hidden="true" tabindex="-1"></a>    <span class="st">"zcat &lt; "</span>, </span>
+<span id="cb85-4"><a href="#cb85-4" aria-hidden="true" tabindex="-1"></a>    <span class="fu">str_c</span>(mimic_path, <span class="st">"/icu/d_items.csv.gz"</span>), </span>
+<span id="cb85-5"><a href="#cb85-5" aria-hidden="true" tabindex="-1"></a>    <span class="st">" | head"</span>), </span>
+<span id="cb85-6"><a href="#cb85-6" aria-hidden="true" tabindex="-1"></a>  <span class="at">intern =</span> <span class="cn">TRUE</span></span>
+<span id="cb85-7"><a href="#cb85-7" aria-hidden="true" tabindex="-1"></a>)</span></code><button title="Copy to Clipboard" class="code-copy-button"><i class="bi"></i></button></pre></div>
 <div class="cell-output cell-output-stdout">
 <pre><code> [1] "itemid,label,abbreviation,linksto,category,unitname,param_type,lownormalvalue,highnormalvalue"   
  [2] "220003,ICU Admission date,ICU Admission date,datetimeevents,ADT,,Date and time,,"                
